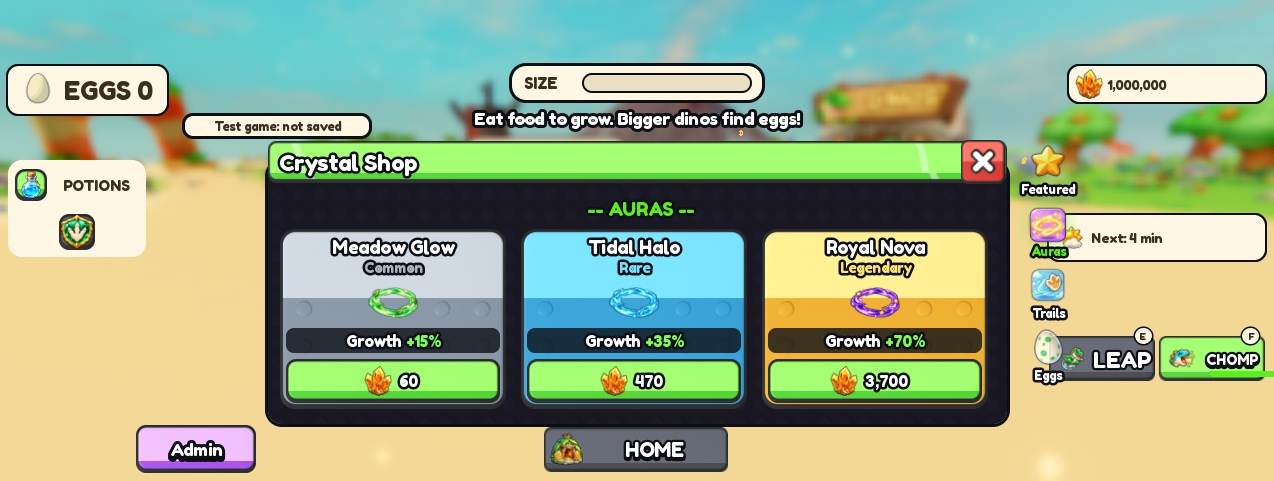
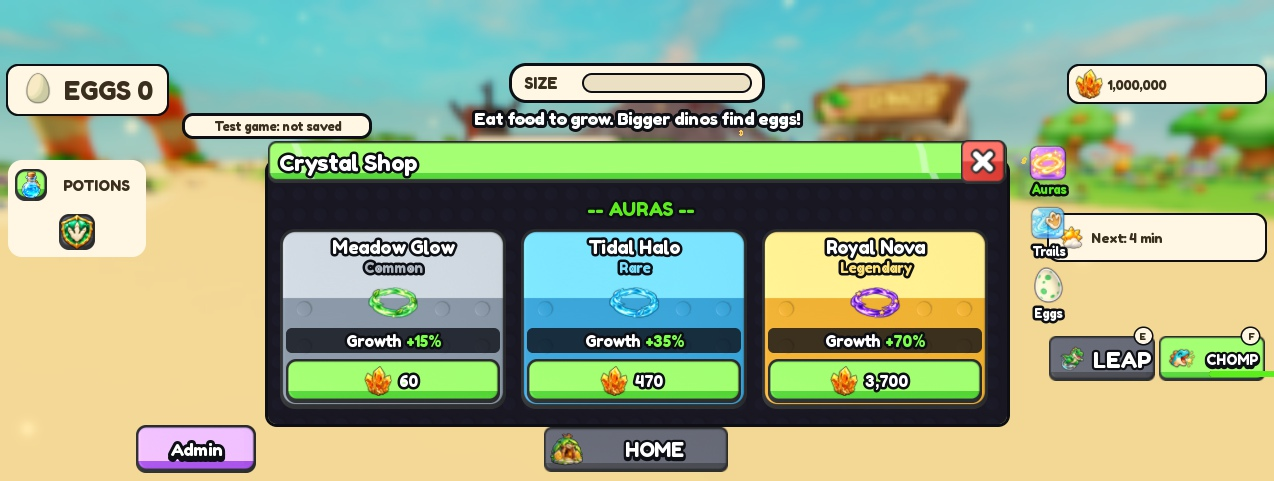
BD-1266: first slice only - frame + Crystal Shop; Potion Shop page out, Featured flag held off (owner 2026-11-18: one slice at a time)

diff --git a/tools/release_profiles.py b/tools/release_profiles.py
@@ -159,7 +159,7 @@ PROFILES: dict[str, list[Rule]] = {
         _flag_off("ThingsToDoEnabled", "BD-1246 something to do in every view: food clusters along the first stretch of each spoke path (same foods and per-zone counts) and one generated set piece per spoke (owner 2026-11-16 'game still looks empty'): only the playtest profile enables it; placement and look only; Studio evidence docs/evidence/2026-11-16-world-fill-ground, no phone check yet"),
         _flag_off("PlazaHubEnabled", "BD-1221 spawn plaza hub: four stalls with big signs and walk-up prompts (docs/242 benchmark gap 4): only the playtest profile enables it; placement and client prompts only; Studio evidence docs/evidence/2026-11-16-world-look, no phone check yet"),
         _flag_off("StandardMenuEnabled", "BD-1266 + BD-1267 standard menu window (docs/244 s2.14): the Crystal Shop and the Potion Shop on one striped-title window with the red X, a dark stud body, the world blurred, offer and item cards and side tabs: only the playtest profile enables it; same remote and server checks, crystals only, free, no Robux"),
-        _flag_off("ShopFeaturedEnabled", "BD-1270 Crystal Shop Featured tab (docs/244 s2.12): this week's aura or trail first, weekly from the server clock, crystals only: only the playtest profile enables it; free, no Robux"),
+        _flag_off("ShopFeaturedEnabled", "BD-1270 Crystal Shop Featured tab (docs/244 s2.12): this week's aura or trail first, weekly from the server clock, crystals only: built, held OFF in every profile until the owner approves the standard window (owner 2026-11-18: one slice at a time); free, no Robux"),
         _flag_off("PlazaShopsV2Enabled", "BD-1248 plaza shops v2: themed generated shop buildings (egg house, mushroom potion hut, crystal stall, fossil-skull hut), one wooden signboard with the word and an icon per shop, low-poly dino shopkeepers (owner 2026-11-16 'not what famous roblox experiences do'): only the playtest profile enables it; look only, same prompts and At home rule; Studio evidence docs/evidence/2026-11-16-plaza-shops-v2, no phone check yet"),
         _flag_off("RareHatchNewsEnabled", "BD-1227 rare hatch news with the hatcher's display name, Epic and up, one chat line (docs/242 gap 17): only the playtest profile enables it; free, no Robux; Studio evidence docs/evidence/2026-11-16-social"),
         _flag_off("FriendBonusEnabled", "BD-1228 friend bonus: +10% run crystals while a Roblox friend is in the server, HUD chip (docs/242 gap 17): only the playtest profile enables it; free, no Robux; Studio evidence docs/evidence/2026-11-16-social"),
@@ -248,7 +248,6 @@ PROFILES: dict[str, list[Rule]] = {
         Rule("ThingsToDoEnabled", "set", True, reason="BD-1246 something to do in every view (owner 2026-11-16: 'game still looks empty', 'Yes, build all'; docs/157 standing rule: test builds carry the newest built features): food clusters along the first stretch of each spoke path moved inside the food map grid from the far side of the same zone (same foods, kinds, points and per-zone counts) with farther food glow, and one generated set piece per spoke (egg nest, signpost, campfire, log jetty, fossil dig); no save, economy or reward change; free, no Robux"),
         Rule("PlazaHubEnabled", "set", True, reason="BD-1221 spawn plaza hub (docs/242 benchmark gap 4, owner 2026-11-16: continue until all proposed changes are in the game; docs/157 standing rule: test builds carry the newest built features): four stalls with big signs on the plaza (the cave home's own generated meshes), walk-up prompts open the screens through the rail's own path; no save, economy or reward change; free, no Robux"),
         Rule("StandardMenuEnabled", "set", True, reason="BD-1266 + BD-1267 standard menu window (owner 2026-11-17: the Steal an Egg shop is the standard, 'Yes, build it'; docs/157 standing rule: test builds carry the newest built features): the Crystal Shop and the Potion Shop on one striped-title window, red X, dark stud body, blur, offer and item cards, side tabs; same remote and server checks; crystals only, free, no Robux"),
-        Rule("ShopFeaturedEnabled", "set", True, reason="BD-1270 Crystal Shop Featured tab (owner 2026-11-17 named 'sub menus like featured'; docs/157 standing rule): this week's aura or trail first, weekly from the server clock, crystal items only; free, no Robux"),
         Rule("PlazaShopsV2Enabled", "set", True, reason="BD-1248 plaza shops v2 (owner 2026-11-16: 'not what famous roblox experiences do with their 3d shops and texts', concept approved 'Yes, build them'; docs/157 standing rule: test builds carry the newest built features): the four plaza stalls become themed generated shop buildings with ONE big wooden signboard each (word and icon on the board face, no floating words) and a small low-poly dino shopkeeper; same spots, prompts and At home rule; no save, economy or reward change; free, no Robux"),
         Rule("RareHatchNewsEnabled", "set", True, reason="BD-1227 rare hatch news with the hatcher's display name, Epic and up, one chat line (docs/242 gap 17) (owner 2026-11-16: continue until all proposed changes are in the actual game; docs/157 standing rule: test builds carry the newest built features); free, no Robux, no paid line"),
         Rule("FriendBonusEnabled", "set", True, reason="BD-1228 friend bonus: +10% run crystals while a Roblox friend is in the server, HUD chip (docs/242 gap 17) (owner 2026-11-16: continue until all proposed changes are in the actual game; docs/157 standing rule: test builds carry the newest built features); free, no Robux, no paid line"),

diff --git a/tests/test_release.py b/tests/test_release.py
@@ -79,7 +79,7 @@ class ReleaseProfileTests(unittest.TestCase):
         self.assertIs(values["IdentityPersistentEnabled"], True)
         self.assertIs(values["IdentityFusionPreviewEnabled"], True)
         changed = [a for a, b in zip(with_ids(CONFIG).splitlines(), rewritten.splitlines()) if a != b]
-        self.assertEqual(len(changed), 62)  # +StandardMenuEnabled (BD-1266), +ShopFeaturedEnabled (BD-1270), +IslandLifeEnabled (BD-1244), +WarmLightEnabled (BD-1247), +PlazaShopsV2Enabled (BD-1248), +GroundDetailEnabled (BD-1245), +ThingsToDoEnabled (BD-1246), +VegetationV2Enabled (BD-1239), +MenusCohesionEnabled (BD-1237), +DinoRigClipsEnabled (BD-1217), +FoodHostsEnabled (BD-1238), +LoadingSceneEnabled (BD-1232), +IndexMilestonesEnabled (BD-1230), +RareHatchNewsEnabled, +FriendBonusEnabled, +BadgesEnabled, +CodesEnabled, +ZoneAmbienceEnabled (BD-1227/1228/1229/1233/1225), +PlazaHubEnabled (BD-1221), +ToonWorldEnabled (BD-1223/1224), +RealSeaEnabled (BD-1220), +PlayCuesEnabled (BD-1226/1231/1234), +AudioPolishEnabled (BD-1218/1219), +HudCohesionEnabled (BD-1213), +ScreensCohesionEnabled (BD-1214), +HatchStageEnabled (BD-1211), +WorldV3Enabled (BD-1209), +FoodV3Enabled (BD-1208), +PlayAgainEnabled (BD-1199), +ToyboxUIEnabled (BD-1177), +MotionPresetsEnabled (BD-1182), +DupProgressEnabled (BD-1170), +HatchFastCommonsEnabled (BD-1164), +StarterRunEnabled (BD-1163), +WelcomeBackEnabled (BD-1168), +TimerChipsEnabled (BD-1124), +ShopCardPriceButtonEnabled (BD-1144), +HudRailWordsEnabled (BD-1116), +RareFindBannerEnabled (BD-1121), +ShopPromptBubbleEnabled (BD-1017), +FoodRespawnTiersEnabled (BD-1081), +FoodLayerEnabled (BD-1047), +PatternColourIndexEnabled (BD-1039), +GeneBoostEnabled (BD-1038), +SecretSpeciesEnabled (docs/173), +RunTelemetryEnabled (BD-426), +ClassMovementEnabled (BD-423), +CaveHub (owner 2026-10-16), +PlaytestFeedbackEnabled (docs/128), +5 docs/157: Objectives, Combat, SpecialFoods, PerDinoCosmetics, FastTravelPerk
+        self.assertEqual(len(changed), 61)  # +StandardMenuEnabled (BD-1266), +IslandLifeEnabled (BD-1244), +WarmLightEnabled (BD-1247), +PlazaShopsV2Enabled (BD-1248), +GroundDetailEnabled (BD-1245), +ThingsToDoEnabled (BD-1246), +VegetationV2Enabled (BD-1239), +MenusCohesionEnabled (BD-1237), +DinoRigClipsEnabled (BD-1217), +FoodHostsEnabled (BD-1238), +LoadingSceneEnabled (BD-1232), +IndexMilestonesEnabled (BD-1230), +RareHatchNewsEnabled, +FriendBonusEnabled, +BadgesEnabled, +CodesEnabled, +ZoneAmbienceEnabled (BD-1227/1228/1229/1233/1225), +PlazaHubEnabled (BD-1221), +ToonWorldEnabled (BD-1223/1224), +RealSeaEnabled (BD-1220), +PlayCuesEnabled (BD-1226/1231/1234), +AudioPolishEnabled (BD-1218/1219), +HudCohesionEnabled (BD-1213), +ScreensCohesionEnabled (BD-1214), +HatchStageEnabled (BD-1211), +WorldV3Enabled (BD-1209), +FoodV3Enabled (BD-1208), +PlayAgainEnabled (BD-1199), +ToyboxUIEnabled (BD-1177), +MotionPresetsEnabled (BD-1182), +DupProgressEnabled (BD-1170), +HatchFastCommonsEnabled (BD-1164), +StarterRunEnabled (BD-1163), +WelcomeBackEnabled (BD-1168), +TimerChipsEnabled (BD-1124), +ShopCardPriceButtonEnabled (BD-1144), +HudRailWordsEnabled (BD-1116), +RareFindBannerEnabled (BD-1121), +ShopPromptBubbleEnabled (BD-1017), +FoodRespawnTiersEnabled (BD-1081), +FoodLayerEnabled (BD-1047), +PatternColourIndexEnabled (BD-1039), +GeneBoostEnabled (BD-1038), +SecretSpeciesEnabled (docs/173), +RunTelemetryEnabled (BD-426), +ClassMovementEnabled (BD-423), +CaveHub (owner 2026-10-16), +PlaytestFeedbackEnabled (docs/128), +5 docs/157: Objectives, Combat, SpecialFoods, PerDinoCosmetics, FastTravelPerk
         self.assertIs(values["LowPolyDinos"], True)
         self.assertEqual((values["WorldArtMode"], values["FoodArtMode"], values["WorldArtDensity"]), ("BiomeKit", "Kit", 1.25))
         self.assertEqual(profiles.verify_source(CONFIG, "default").errors, [])

diff --git a/tools/verify_menu_window.py b/tools/verify_menu_window.py
@@ -10,7 +10,8 @@ Runs the REAL Shared/MenuWindowRules in the pinned Luau runtime and checks, at a
   * the Crystals (Robux packs) tab never shows; Featured first only with its flag;
   * BD-1270: the weekly pick is deterministic, the same all week, changes on Monday 00:00 UTC, only priced (crystal) items, never more than 3;
     "3 days left" / "1 day left" / "Last day", never seconds.
-Source guards: both flags ship false, are pinned off by default, ON in the playtest profile, in the rehearsal list and the manifest; the
+Source guards: both flags ship false and are pinned off by default; StandardMenuEnabled is ON in the playtest profile, ShopFeaturedEnabled stays
+off everywhere until the owner approves the window (owner 2026-11-18); both are in the rehearsal list and the manifest; the
 routes are registered only behind StandardMenuEnabled; Bootstrap.client is untouched; the window and the pages build no art (only the allowed
 instance classes), use Chip.apply, send nothing themselves (only through ShopScreens' transact), and have no Robux, gift or crossed-out price.
 Mutants put a defect back and the checks must fail.
@@ -153,10 +154,13 @@ def static_checks(files=None):
     get = lambda path: files.get(path) or read(path)  # noqa: E731
     errors = []
     config, profiles = get('src/shared/Config.luau'), get('tools/release_profiles.py')
+    if 'Rule("ShopFeaturedEnabled", "set", True,' in profiles:
+        errors.append('ShopFeaturedEnabled stays off in every profile until the owner approves the standard window (owner 2026-11-18)')
     for flag, row in (('StandardMenuEnabled', 'BD-1266'), ('ShopFeaturedEnabled', 'BD-1270')):
         if len(re.findall(r'^    %s = false,$' % flag, config, re.M)) != 1:
             errors.append('Config.%s must ship false exactly once' % flag)
-        for needle in ('_flag_off("%s",' % flag, 'Rule("%s", "set", True,' % flag, '("%s", "%s' % (flag, row)):
+        wanted = ('_flag_off("%s",' % flag, '("%s", "%s' % (flag, row)) + (('Rule("%s", "set", True,' % flag,) if flag == 'StandardMenuEnabled' else ())
+        for needle in wanted:
             if needle not in profiles:
                 errors.append('release_profiles.py is missing %s' % needle)
         if '"%s"' % flag not in get('tools/release_playtest.py') or '"%s"' % flag not in get('tests/test_rehearsal.py'):

diff --git a/docs/kanban/rows/BD-1266.md b/docs/kanban/rows/BD-1266.md
@@ -1,1 +1,1 @@
-| BD-1266 | Review / test | P1 | **Owner standard menu window (Steal an Egg shop look): size, title bar, red X, dark body, section headers, 2-column cards (docs/244 s2.12)** Owner 2026-11-17 sent their own phone screenshot of the Steal an Egg shop with Passes open (local only: be-dino-reference-shots/mobile-2026-11-17/owner-phone-current-1.png): 'really clean nice colors, easy to read, minimal ... the passes and sub menus like featured or the shop ... should be in our game similar'. Make it the Toybox standard (ToyboxKit / ToyboxSkin / Chip.apply, Scale values only, % h = share of the screen height, phone canvas about 480 design px tall). Window: 58 % of the screen width (min 540, max 1100 design px) x 67 % h, centred 3 % h below the middle. Title bar 10 % h, bright stripes in the screen's colour, title word 4.5 % h, white with a 2.5 px black outline. Close X: 8 % h red square inside the title bar, right. Body: dark patterned panel. Section headers '-- NAME --' 3.8 % h, coloured fill, black outline. Card grid: 2 columns on the phone (3 on desktop), gap 3.5 % h. Card 28 % h tall with a bright gradient by rarity or theme, 3D icon 15 % h on the left, title 3.5 % h outlined, ONE line 3.1 % h with the key word coloured ('Growth +15%'), green price button 6.6 % h with a crystal icon and number. No gift button, no Robux, no crossed-out prices (paid lines off, docs/43). Applies to the Crystal Shop, Potion Shop, Eggs and Index (mapping in docs/244 s2.12). Flag (StandardMenuEnabled) off by default, on in playtest. Done = phone screenshot of the Crystal Shop next to the reference with the measured sizes within ±10 %. Owner ref 4 (Trail Shop, docs/244 s2.13) adds the ITEM-CARD standard: item windows 43 % w x 56 % h; 3 tall cards per row (44 % h), each one solid colour by our rarity (docs/114 s5: Common #808E9E, Uncommon #5DED1F, Rare #2ECEFF, Epic #C256FF, Legendary #FFD22B, Mythic #F73930), name outlined with the rarity word small under it, a big ViewportFrame or Blender render filling the card (never code-drawn), a dark effect strip with the number in green ('Speed +20%'), a full-width green button (5 % h: crystal price, or Equip / Use when owned). While any window is open the world gets a BlurEffect (Size 12), and the HUD corners stay visible around the window. 2026-11-18 standard window built (src/client/MenuWindow.luau, Shared/MenuWindowRules, flag StandardMenuEnabled, playtest on): Crystal Shop green 58x67 and Potion Shop purple 43x56 measured in Studio at 1274x423 (58.0 % w x 66.9 % h; 43.0 x 56.0); offer + item cards, section headers, blur 12, no scrim; evidence docs/evidence/2026-11-18-ui-windows; phone device check still open | BD-1259 |
+| BD-1266 | Review / test | P1 | **Owner standard menu window (Steal an Egg shop look): size, title bar, red X, dark body, section headers, 2-column cards (docs/244 s2.12)** Owner 2026-11-17 sent their own phone screenshot of the Steal an Egg shop with Passes open (local only: be-dino-reference-shots/mobile-2026-11-17/owner-phone-current-1.png): 'really clean nice colors, easy to read, minimal ... the passes and sub menus like featured or the shop ... should be in our game similar'. Make it the Toybox standard (ToyboxKit / ToyboxSkin / Chip.apply, Scale values only, % h = share of the screen height, phone canvas about 480 design px tall). Window: 58 % of the screen width (min 540, max 1100 design px) x 67 % h, centred 3 % h below the middle. Title bar 10 % h, bright stripes in the screen's colour, title word 4.5 % h, white with a 2.5 px black outline. Close X: 8 % h red square inside the title bar, right. Body: dark patterned panel. Section headers '-- NAME --' 3.8 % h, coloured fill, black outline. Card grid: 2 columns on the phone (3 on desktop), gap 3.5 % h. Card 28 % h tall with a bright gradient by rarity or theme, 3D icon 15 % h on the left, title 3.5 % h outlined, ONE line 3.1 % h with the key word coloured ('Growth +15%'), green price button 6.6 % h with a crystal icon and number. No gift button, no Robux, no crossed-out prices (paid lines off, docs/43). Applies to the Crystal Shop, Potion Shop, Eggs and Index (mapping in docs/244 s2.12). Flag (StandardMenuEnabled) off by default, on in playtest. Done = phone screenshot of the Crystal Shop next to the reference with the measured sizes within ±10 %. Owner ref 4 (Trail Shop, docs/244 s2.13) adds the ITEM-CARD standard: item windows 43 % w x 56 % h; 3 tall cards per row (44 % h), each one solid colour by our rarity (docs/114 s5: Common #808E9E, Uncommon #5DED1F, Rare #2ECEFF, Epic #C256FF, Legendary #FFD22B, Mythic #F73930), name outlined with the rarity word small under it, a big ViewportFrame or Blender render filling the card (never code-drawn), a dark effect strip with the number in green ('Speed +20%'), a full-width green button (5 % h: crystal price, or Equip / Use when owned). While any window is open the world gets a BlurEffect (Size 12), and the HUD corners stay visible around the window. 2026-11-18 standard window built (src/client/MenuWindow.luau, Shared/MenuWindowRules, flag StandardMenuEnabled, playtest on): Crystal Shop green 58x67 and Potion Shop purple 43x56 measured in Studio at 1274x423 (58.0 % w x 66.9 % h; 43.0 x 56.0); offer + item cards, section headers, blur 12, no scrim; evidence docs/evidence/2026-11-18-ui-windows; phone device check still open 2026-11-18 scope cut to the frame + Crystal Shop (owner: one slice at a time); Potion Shop, Aura Shop look (mock 07) and egg picker (mock 08) are next on the same frame after the owner approves | BD-1259 |

diff --git a/docs/157-playtest-profile-newest-features.md b/docs/157-playtest-profile-newest-features.md
@@ -130,5 +130,4 @@ Label: **CURRENT BUILD BEHAVIOR** of the playtest profile; the default profile o
 * **Update 2026-11-16 (BD-1244 + BD-1247, owner 2026-11-16 "game still looks empty", "Yes, build all"):** `IslandLifeEnabled` (World V3 island, client-only: butterfly flocks beside the paths and on the spawn plaza, dragonflies at the lagoon and the waterfall, gulls circling high, and small wild baby dinos, herbivore V3 low-poly dinos at 0.55 size posed with the BD-1217 clips, grazing, looking around, ambling and hopping when a player walks up; two of them on the spawn plaza beside the main path; four `generate_mesh` critters, docs/77) and `WarmLightEnabled` (a warmer, slightly more saturated colour grade, gentle bloom, faint sun rays and slow pollen / light motes per zone, ash in the volcano corner; clear weather on the island only) are ON in the playtest profile and pinned off in the default profile. Pooled, shown only within 150 studs of the camera, capped per device (phone at most 46 life parts, 50 live motes). Studio PC numbers (not a phone): parts within 300 studs of spawn 4,643 -> about 4,730 (life 67-84 parts, desktop caps), live particles about 239 -> 339 (+100 motes desktop). Evidence docs/evidence/2026-11-16-world-fill-life; no phone check yet.
 * **Update 2026-11-16 (BD-1245 + BD-1246, owner 2026-11-16 "game still looks empty", "Yes, build all"):** `GroundDetailEnabled` (soft patches of the other green in the open grass and a path-coloured path rim, terrain only; vegetation v2 mossy rocks as edge stones, generated pebbles and one log along each spoke and flower-and-grass patches, one mesh each; single ground cover clumps thinned from 50% to 30% to pay for them) and `ThingsToDoEnabled` (79 berries and fruit moved inside the food map grid from the 180-300 stud band of their own zone to little clusters along the first stretch of each spoke path, same 3,600 foods and per-zone counts, food glow reaches 175 studs; one generated set piece per spoke: egg nest, signpost with the zone names, campfire, log bridge at the lagoon, fossil dig) are ON in the playtest profile and pinned off in the default profile (both need World V3, the toon island and vegetation v2). Studio PC numbers (not a phone): parts within 300 studs of spawn 4,479 -> 4,313 (server count, same method both times; food there 2,747 both times). Evidence docs/evidence/2026-11-16-world-fill-ground; no phone check yet.
 * **Update 2026-11-17 (BD-1248, owner 2026-11-16 "not what famous roblox experiences do with their 3d shops and texts", concept sheet approved "Yes, build them"):** `PlazaShopsV2Enabled` (with World V3 and the plaza hub: the four plaza stalls become themed shop buildings, one Roblox `generate_mesh` model each: a giant cracked egg house with a nest crown (EGGS), a purple mushroom potion hut (POTIONS), a crystal stall with a teal roof (SHOP) and a fossil-skull hut (DINOS); ONE chunky generated wooden signboard per shop with the word and an icon on its face in the game font with a thick dark outline (no floating words, no stone sign, the prompt shows no second name); a small low-poly dino shopkeeper behind each counter playing the authored idle loop and the happy clip) is ON in the playtest profile and pinned off in the default profile. Same spots, prompts and "At home" rule (POTIONS opens on the plaza, the other three say "Open at HOME"). Studio PC numbers (not a phone): server parts within 300 studs of spawn 4,307 -> 4,299 (plaza 20 -> 16), plus 28 client-only shopkeeper parts. Evidence docs/evidence/2026-11-16-plaza-shops-v2; no phone check yet.
-* **Update 2026-11-18 (BD-1266, BD-1267, BD-1270, owner 2026-11-17 "Yes, build it", docs/244 s2.14):** `StandardMenuEnabled` (the Crystal Shop and the Potion Shop open on the ONE standard window: striped title bar in the window colour, red square X, dark stud body, world blurred, HUD visible, sizes as shares of the screen, "-- NAME --" sections, offer and item cards, side category tabs outside the window) and `ShopFeaturedEnabled` (the Crystal Shop opens on Featured: this week's aura or trail, "-- NEW --" with two more, "5 days left") are ON in the playtest profile and pinned off in the default profile. Same remote, token and server checks; crystals only, no Robux. Studio numbers at 1274 x 423 (not a phone): Crystal Shop 58.0 % w x 66.9 % h, Potion Shop 43.0 % w x 56.0 % h. Evidence docs/evidence/2026-11-18-ui-windows; no phone check yet.
-
+* **Update 2026-11-18 (BD-1266, BD-1267, owner 2026-11-17 "Yes, build it", docs/244 s2.14; owner 2026-11-18 "don't do too much at once"):** `StandardMenuEnabled` (the Crystal Shop opens on the ONE standard window: striped title bar in the window colour, red square X, dark stud body, world blurred, HUD visible, sizes as shares of the screen, "-- NAME --" sections, offer and item cards, side category tabs outside the window) is ON in the playtest profile and pinned off in the default profile. `ShopFeaturedEnabled` (BD-1270) is built but held OFF in every profile until the owner approves the window. Same remote, token and server checks; crystals only, no Robux. Studio numbers at 1274 x 423 (not a phone): 58.0 % w x 66.9 % h. Evidence docs/evidence/2026-11-18-ui-windows; no phone check yet.

diff --git a/docs/115-decisions-log.md b/docs/115-decisions-log.md
@@ -859,11 +859,12 @@ Owner answers to the reference sheets in `docs/evidence/2026-11-14-owner-questio
 - **LEAD decision (body style):** dark studded body with a header colour per menu and rarity-filled cards, the look of the owner's own Steal an Egg references, built from the Toybox kit pieces we already have (studs-tile, header-*, card-*). Not picked: a themed body per place (Grow a Garden wood) because it needs new art for every place; cream kept (owner just said it does not read like the top games). Cream stays for small text plates (HUD, toasts, chips). Overturn: say "themed per place" or "keep cream" and BD-1253 / BD-1254 change their body only.
 - **Order (feature intake rule):** spec and backlog first (docs/243 section 5, BD-1252 to BD-1257), nothing built in this change; the build goes behind a new flag `MenusTopLookEnabled` (off by default, on in playtest per docs/157).
 
-## BD-1266 / BD-1267 / BD-1270: the standard menu window, first two shops (2026-11-18, OWNER decision + LEAD decisions, owner delegated 2026-10-16)
+## BD-1266 / BD-1267 / BD-1270: the standard menu window, first slice = the Crystal Shop (2026-11-18, OWNER decision + LEAD decisions, owner delegated 2026-10-16)
 - **Owner 2026-11-17:** approved the phone UI kit of docs/244 s2.14 ("Yes, build it") and the Crystal Shop and Potion Shop mockups (copies in docs/evidence/2026-11-18-ui-windows/mock-*.png).
-- **LEAD decision (which spec wins):** docs/244 s2.14 over docs/243 (243 says "no scrim" and names the flag `MenusTopLookEnabled`; 244 keeps no scrim but blurs the world). Built behind the row's own flag name `StandardMenuEnabled` (BD-1266) plus `ShopFeaturedEnabled` (BD-1270); both off by default, on in playtest. Overturn: rename the flags in Config and tools/release_profiles.py.
+- **Owner 2026-11-18 (via the lead):** "don't do too much at once, because if I don't like it we have to redo everything." So this change is the frame plus the Crystal Shop only; `ShopFeaturedEnabled` stays off in every profile; the Potion Shop, the Aura Shop look (mock 07) and the egg picker (mock 08) wait for the owner's OK on this look.
+- **LEAD decision (which spec wins):** docs/244 s2.14 over docs/243 (243 says "no scrim" and names the flag `MenusTopLookEnabled`; 244 keeps no scrim but blurs the world). Built behind the row's own flag name `StandardMenuEnabled` (BD-1266, off by default, on in playtest) plus `ShopFeaturedEnabled` (BD-1270, off everywhere for now). Overturn: rename the flags in Config and tools/release_profiles.py.
 - **LEAD decision (offer card layout):** the docs/244 card (icon on the left third, title and ONE line right, price button under them, 28 % h) and not the mockup's stacked card (title, big icon, line, button), because the stacked card needs about 44 % h and leaves no icon at 28 % h. Overturn: change MenuWindowRules.offerParts.
 - **LEAD decision (tabs):** Crystal Shop tabs = Featured, Auras, Trails, Eggs, and "Luck" (the egg conditions, from level 3, the word "Conditions" is too long for kids). The Crystals tab (Robux packs) is left off this window: paid lines are off (docs/43). Featured picks only crystal-priced auras and trails (no egg: the random egg sits behind PaidRandomGate and its odds page).
-- **LEAD decision (buying):** the "Buy X?" confirm sits inside the window (one step, same remote and token as before); the egg purchase, egg chances, luck upgrade and potion replace pages stay Bootstrap screens and the standard window closes while they show (two windows never stack).
-- **LEAD decision (art):** no new art. Title bars = the Toybox header pictures nearest the window colour (yellow -> amber, cyan -> blue, grey -> dark); cards = the Toybox tier cards; tab icons = existing slots (notify_star, shop_tab_*, egg_green_spotted, potion_icon_*); aura renders = the aura ring art; trails have no own render yet, so the trail tab icon tinted in the trail colour stands in (follow-up: Blender trail renders).
+- **LEAD decision (buying):** the "Buy X?" confirm sits inside the window (one step, same remote and token as before); the egg purchase, egg chances and luck upgrade pages stay Bootstrap screens and the standard window closes while they show (two windows never stack).
+- **LEAD decision (art):** no new art. Title bars = the Toybox header pictures nearest the window colour (yellow -> amber, cyan -> blue, grey -> dark); cards = the Toybox tier cards; tab icons = existing slots (notify_star, shop_tab_*, egg_green_spotted); aura renders = the aura ring art; trails use their bound trail icons (TrailIconAssetIds), else the trail tab icon tinted in the trail colour.
 

diff --git a/docs/evidence/2026-11-18-ui-windows/README.md b/docs/evidence/2026-11-18-ui-windows/README.md
@@ -1,18 +1,17 @@
-# Standard menu window: Crystal Shop and Potion Shop (BD-1266, BD-1267, BD-1270), 2026-11-18
+# Standard menu window, first slice: the Crystal Shop (BD-1266, BD-1267), 2026-11-18
 
-Built behind `StandardMenuEnabled` and `ShopFeaturedEnabled` (both off by default, on in the playtest profile). Spec: docs/244 s2.12 to s2.14.
+Built behind `StandardMenuEnabled` (off by default, on in the playtest profile). Spec: docs/244 s2.12 to s2.14. The owner said on 2026-11-18
+"don't do too much at once": this slice is the frame plus the Crystal Shop only, for the owner to approve the look first. The Featured tab
+(BD-1270) is built but its flag `ShopFeaturedEnabled` stays off in every profile; the Potion Shop, the Aura Shop look (mock 07) and the egg
+picker (mock 08) come next on the same frame.
 
 | File | What |
 | --- | --- |
-| mock-crystal-shop.png, mock-potion-shop.png | The approved mockups (owner 2026-11-17) |
-| compare-crystal-shop.jpg, compare-potion-shop.jpg | Mock next to the Studio capture |
-| studio-crystal-featured.jpg | Featured tab: this week's pick, "5 days left" |
-| studio-crystal-featured-new.jpg | Featured scrolled: "-- NEW --" with two offer cards |
+| mock-crystal-shop.png | The approved mockup (owner 2026-11-17) |
+| compare-crystal-shop.jpg | Mock next to the Studio capture (review copy 607) |
 | studio-crystal-auras.jpg | Auras tab: 3 item cards, rarity colours, green number, crystal price |
+| studio-crystal-trails.jpg | Trails tab: the trail icons, "Level N" while locked |
 | studio-crystal-eggs.jpg | Eggs tab: offer cards (the random egg says Soon while PaidRandomGate blocks it, as on the old screen) |
-| studio-potion-shop.jpg | Potion Shop: item cards, "New in 1 min" on the title bar |
-| studio-potion-confirm.jpg | The in-window "Buy Swift Sip?" confirm (earlier build: the veil covered the X; fixed, it now starts under the title bar) |
-| studio-potion-yours.jpg | Yours tab after a real buy (the server answered "Done!") |
 
 ## Measured in Studio (playtest build, my own test window on the virtual monitor)
 
@@ -21,16 +20,16 @@ Viewport 1274 x 423 px (Studio play, NOT the device emulator and NOT a phone: th
 | Piece | Spec | Measured |
 | --- | --- | --- |
 | Crystal Shop window | 58 % w x 67 % h | 58.0 % w x 66.9 % h |
-| Potion Shop window | 43 % w x 56 % h | 43.0 % w x 56.0 % h |
 | Title bar | 10 % h | 9.9 % h |
 | Red X | 8 % h | 10.4 % h (raised to the 44 px touch floor on a 423 px canvas) |
-| Side tab | icon 9.5 % h, 44 px target | icon 10.4 % h while active (1.1 bounce), tab 66 x 56 px, left edge 8 px right of the window |
+| Side tab | icon 9.5 % h, 44 px target | tab 66 x 56 px, left edge 8 px right of the window |
 | Blur | Size 12 while open | 12 open, 0 after close (also 0 when Bootstrap's window takes over) |
 
-Flow checked in Studio: open Crystal Shop and Potion Shop, switch tabs, Chances closes the standard window and opens Bootstrap's chances page, opening a shop while Bootstrap's window is open closes it first, buy a potion (Done!), see it on Yours.
+Flow checked in Studio: open the Crystal Shop, switch tabs, Chances closes the window and opens Bootstrap's chances page, opening the shop while
+Bootstrap's window is open closes that first. (A real buy through the in-window confirm was checked on the earlier Potion Shop build: the server
+answered "Done!".)
 
 ## Not checked / known gaps
 - No phone or device-emulator capture yet (owner phone check open).
-- On this short canvas the item renders are small (the card is about 40 % h; name, rarity, strip and a 44 px button take most of it).
-- The HUD in the pictures is today's HUD; the HUD rebuild (sibling session) moves the right column the side tabs sit next to.
+- The side tabs sit over today's weather card; the HUD rebuild (sibling session) moves the right column.
 - The Luck tab (level 3) and an equipped aura were not captured.

diff --git a/docs/kanban/rows/BD-1270.md b/docs/kanban/rows/BD-1270.md
@@ -1,1 +1,1 @@
-| BD-1270 | Review / test | P2 | **Crystal Shop 'Featured' tab: this week's new thing first, crystals only (owner standard, docs/244 s2.12)** Owner 2026-11-17 named 'sub menus like featured' in the Steal an Egg shop. Our version: Featured becomes the first side tab and the page the Crystal Shop opens on. One big card for this week's new item (an aura, trail or egg from content we already have), egg odds in kid words, a crystal price on the green button, and 'Ends in 3 days' in the timer style (BD-1268); under it '-- NEW --' with 2 more cards. Rotation runs from a server list (weekly, the same for everyone, picked by date). Kid-safe rules (docs/43, docs/114): crystals only, no Robux, no crossed-out 'worth' prices, no countdown under 1 day shown in seconds, no pay-to-skip. Flag (ShopFeaturedEnabled) off by default, on in playtest. Done = phone screenshot plus a test proving the weekly pick is deterministic and only uses priced crystal items. 2026-11-18 Featured tab (ShopFeaturedEnabled, playtest on): weekly pick from the server clock (MenuWindowRules.featured, Monday 00:00 UTC), crystal-priced auras and trails only, '5 days left'; deterministic test in tools/verify_menu_window.py; evidence docs/evidence/2026-11-18-ui-windows | BD-1266, BD-1267 |
+| BD-1270 | Backlog | P2 | **Crystal Shop 'Featured' tab: this week's new thing first, crystals only (owner standard, docs/244 s2.12)** Owner 2026-11-17 named 'sub menus like featured' in the Steal an Egg shop. Our version: Featured becomes the first side tab and the page the Crystal Shop opens on. One big card for this week's new item (an aura, trail or egg from content we already have), egg odds in kid words, a crystal price on the green button, and 'Ends in 3 days' in the timer style (BD-1268); under it '-- NEW --' with 2 more cards. Rotation runs from a server list (weekly, the same for everyone, picked by date). Kid-safe rules (docs/43, docs/114): crystals only, no Robux, no crossed-out 'worth' prices, no countdown under 1 day shown in seconds, no pay-to-skip. Flag (ShopFeaturedEnabled) off by default, on in playtest. Done = phone screenshot plus a test proving the weekly pick is deterministic and only uses priced crystal items. 2026-11-18 Featured tab (ShopFeaturedEnabled, playtest on): weekly pick from the server clock (MenuWindowRules.featured, Monday 00:00 UTC), crystal-priced auras and trails only, '5 days left'; deterministic test in tools/verify_menu_window.py; evidence docs/evidence/2026-11-18-ui-windows 2026-11-18 built behind ShopFeaturedEnabled (weekly pick tested in tools/verify_menu_window.py) but held OFF in every profile: owner 2026-11-18 'don't do too much at once' - turn on after the owner approves the standard window (BD-1266) | BD-1266, BD-1267 |
